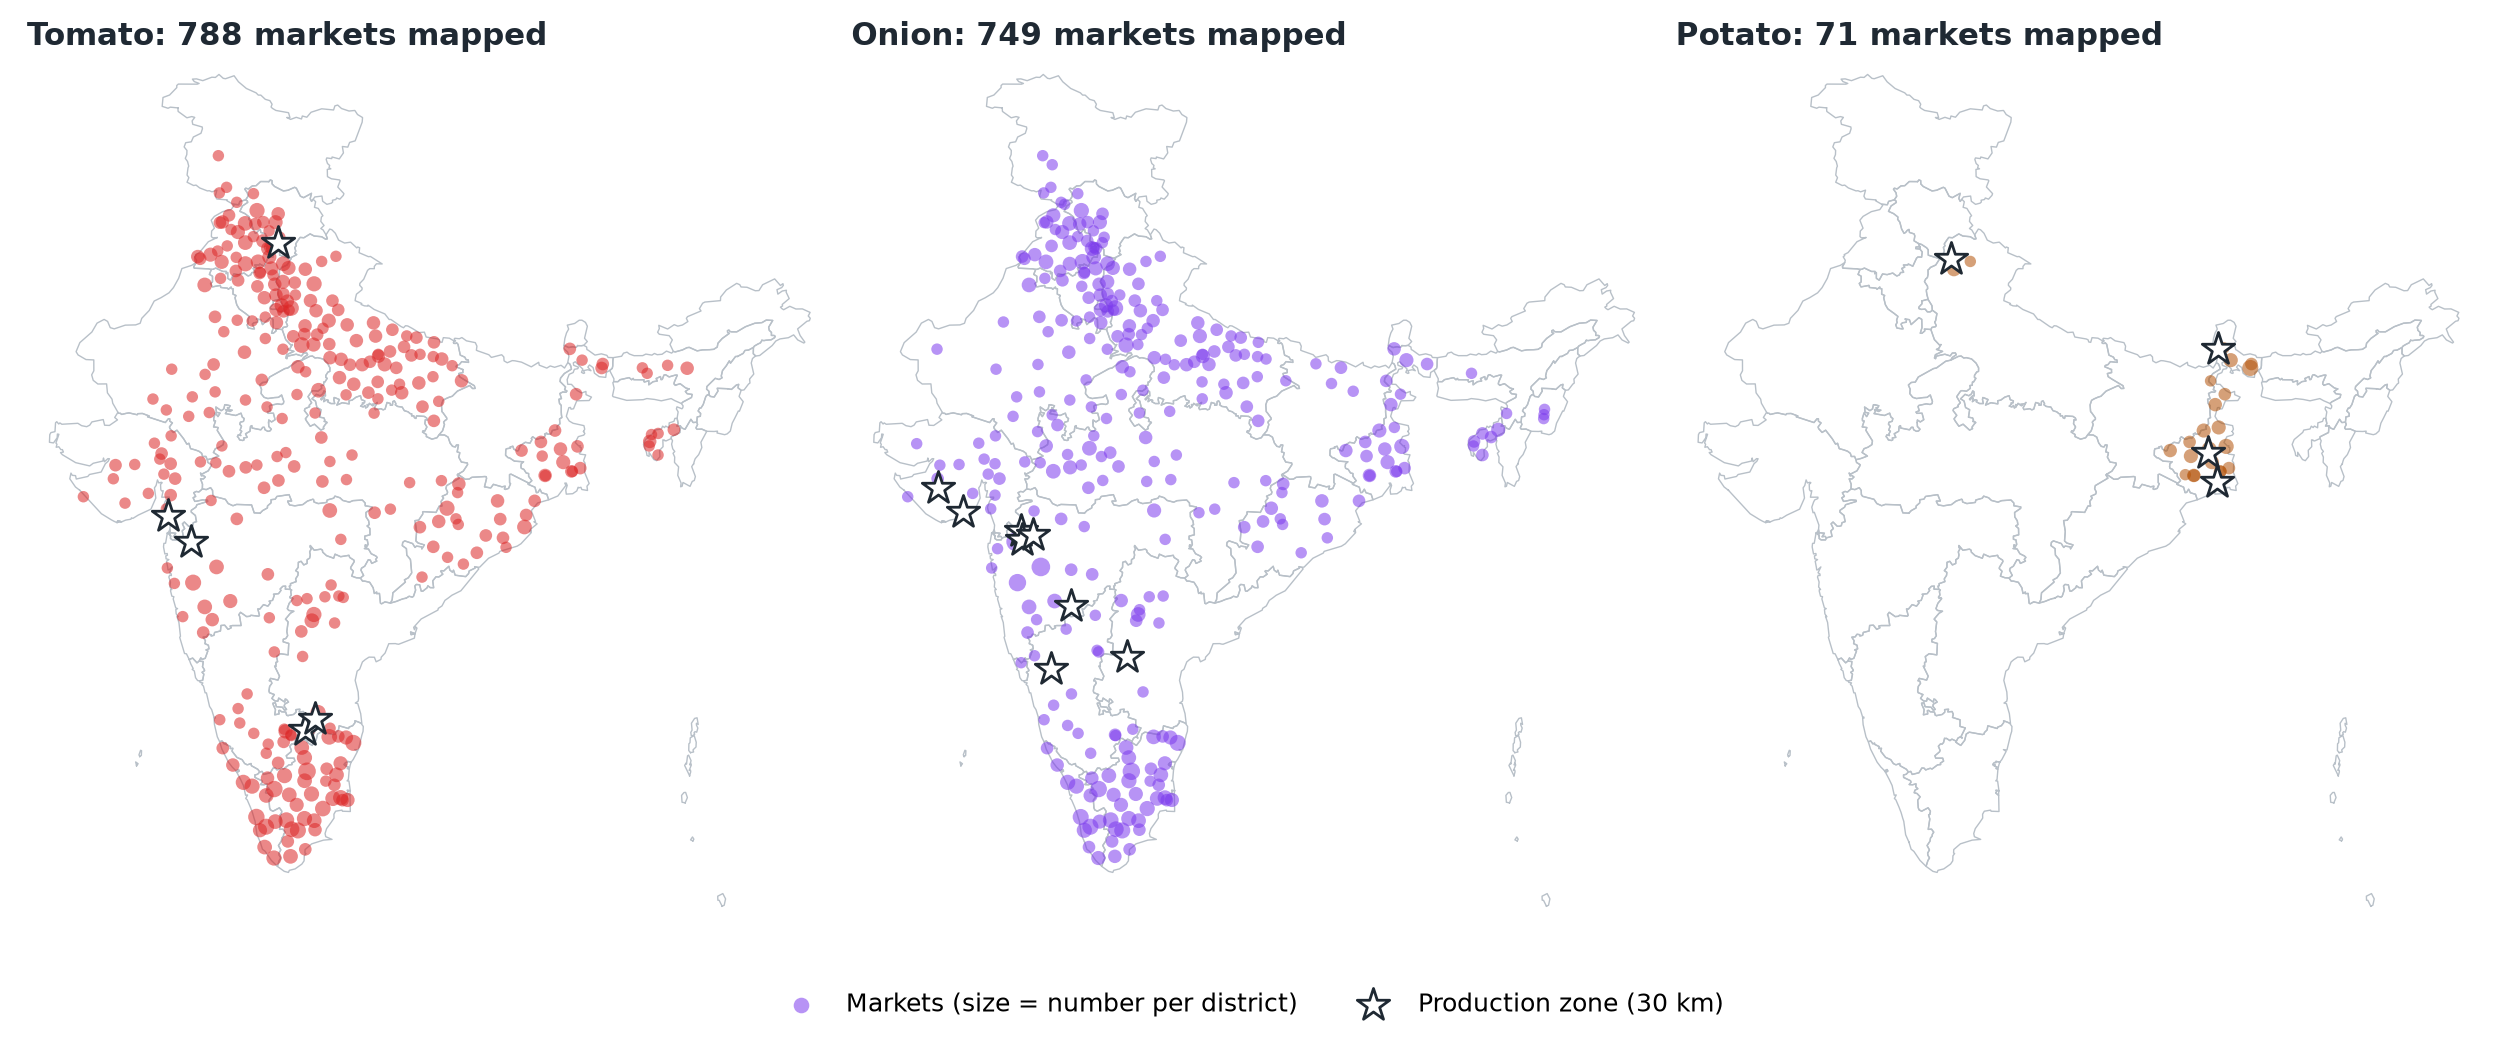
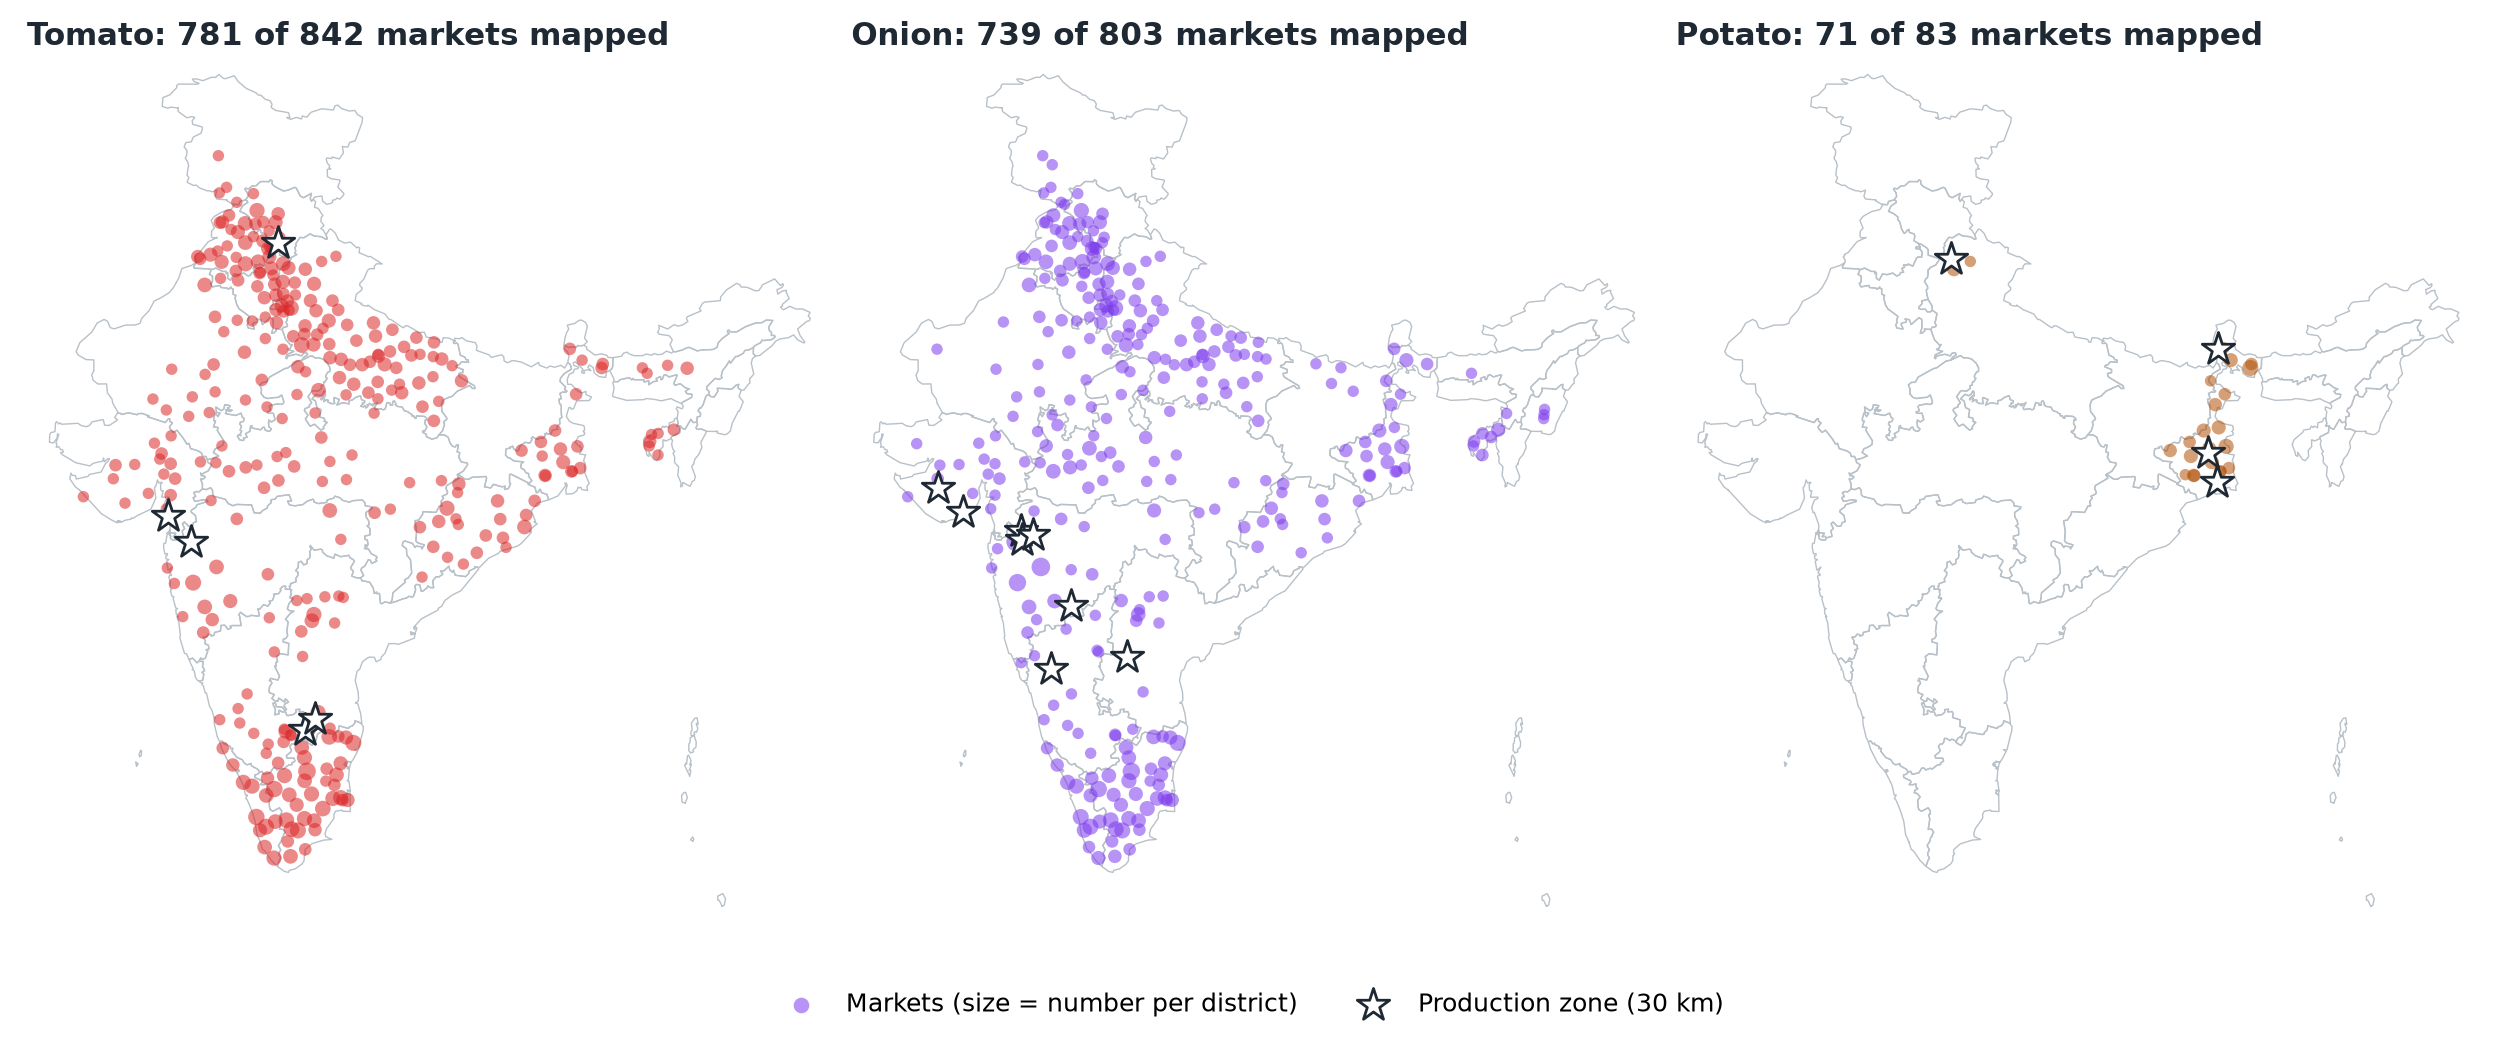
Study-area map: draw current panel markets only and show n mapped of N

Changed region(s): [[0.0936, 0.0, 0.2808, 0.0615], [0.7488, 0.0, 0.9048, 0.0615], [0.4368, 0.0, 0.5928, 0.0615]]

diff --git a/scripts/78_Study_Area_Figures.py b/scripts/78_Study_Area_Figures.py
@@ -41,14 +41,17 @@ def zones():
     return pd.DataFrame(out)
 
 
-def fig1():
+def fig1(p):
     try:
         import shapefile
         r = shapefile.Reader(SHP)
     except Exception as e:
         print('[78] map skipped:', e); return
     za = pd.read_csv(os.path.join(BASE, 'data', 'zone_assignment.csv'))
+    za['market_id'] = za['market_id'].astype(float).astype(int)
+    panel_ids = {c: set(p[p.crop == c].market_id.dropna().astype(int)) for c in CROPS}
     za = za[za['geocode_level'].isin(['district', 'district_only']) & za['lat'].notna()]
+    za = za[[mid in panel_ids[c] for c, mid in zip(za.crop, za.market_id)]]     # current panel markets only
     pts = za.groupby(['crop', 'lat', 'lon']).size().reset_index(name='n')
     Z = zones()
     fig, axs = plt.subplots(1, 3, figsize=(12.5, 5.2))
@@ -61,7 +64,7 @@ def fig1():
         ax.scatter(d.lon, d.lat, s=8 + 9 * np.sqrt(d.n), color=COL[crop], alpha=0.55, linewidths=0, zorder=3, label='Markets (size = number per district)')
         zz = Z[Z.crop == crop]
         ax.scatter(zz.lon, zz.lat, marker='*', s=150, color='white', edgecolor=INK, linewidths=1.0, zorder=5, label='Production zone (30 km)')
-        ax.set_title('%s: %d markets mapped' % (crop.capitalize(), int(za[za.crop == crop].market_id.nunique())), fontsize=11, fontweight='bold', color=INK, loc='left')
+        ax.set_title('%s: %d of %d markets mapped' % (crop.capitalize(), int(za[za.crop == crop].market_id.nunique()), len(panel_ids[crop])), fontsize=11, fontweight='bold', color=INK, loc='left')
         ax.set_xlim(67.5, 98); ax.set_ylim(6, 37.5); ax.set_aspect(1.05); ax.axis('off')
     h, l = axs[1].get_legend_handles_labels()
     fig.legend(h, l, loc='lower center', ncol=2, frameon=False, fontsize=9)
@@ -125,5 +128,5 @@ def fig5():
 
 if __name__ == '__main__':
     p = panel()
-    fig1(); fig2(p); fig3(p); fig4(p); fig5()
+    fig1(p); fig2(p); fig3(p); fig4(p); fig5()
     print('wrote figures to', OUT)
